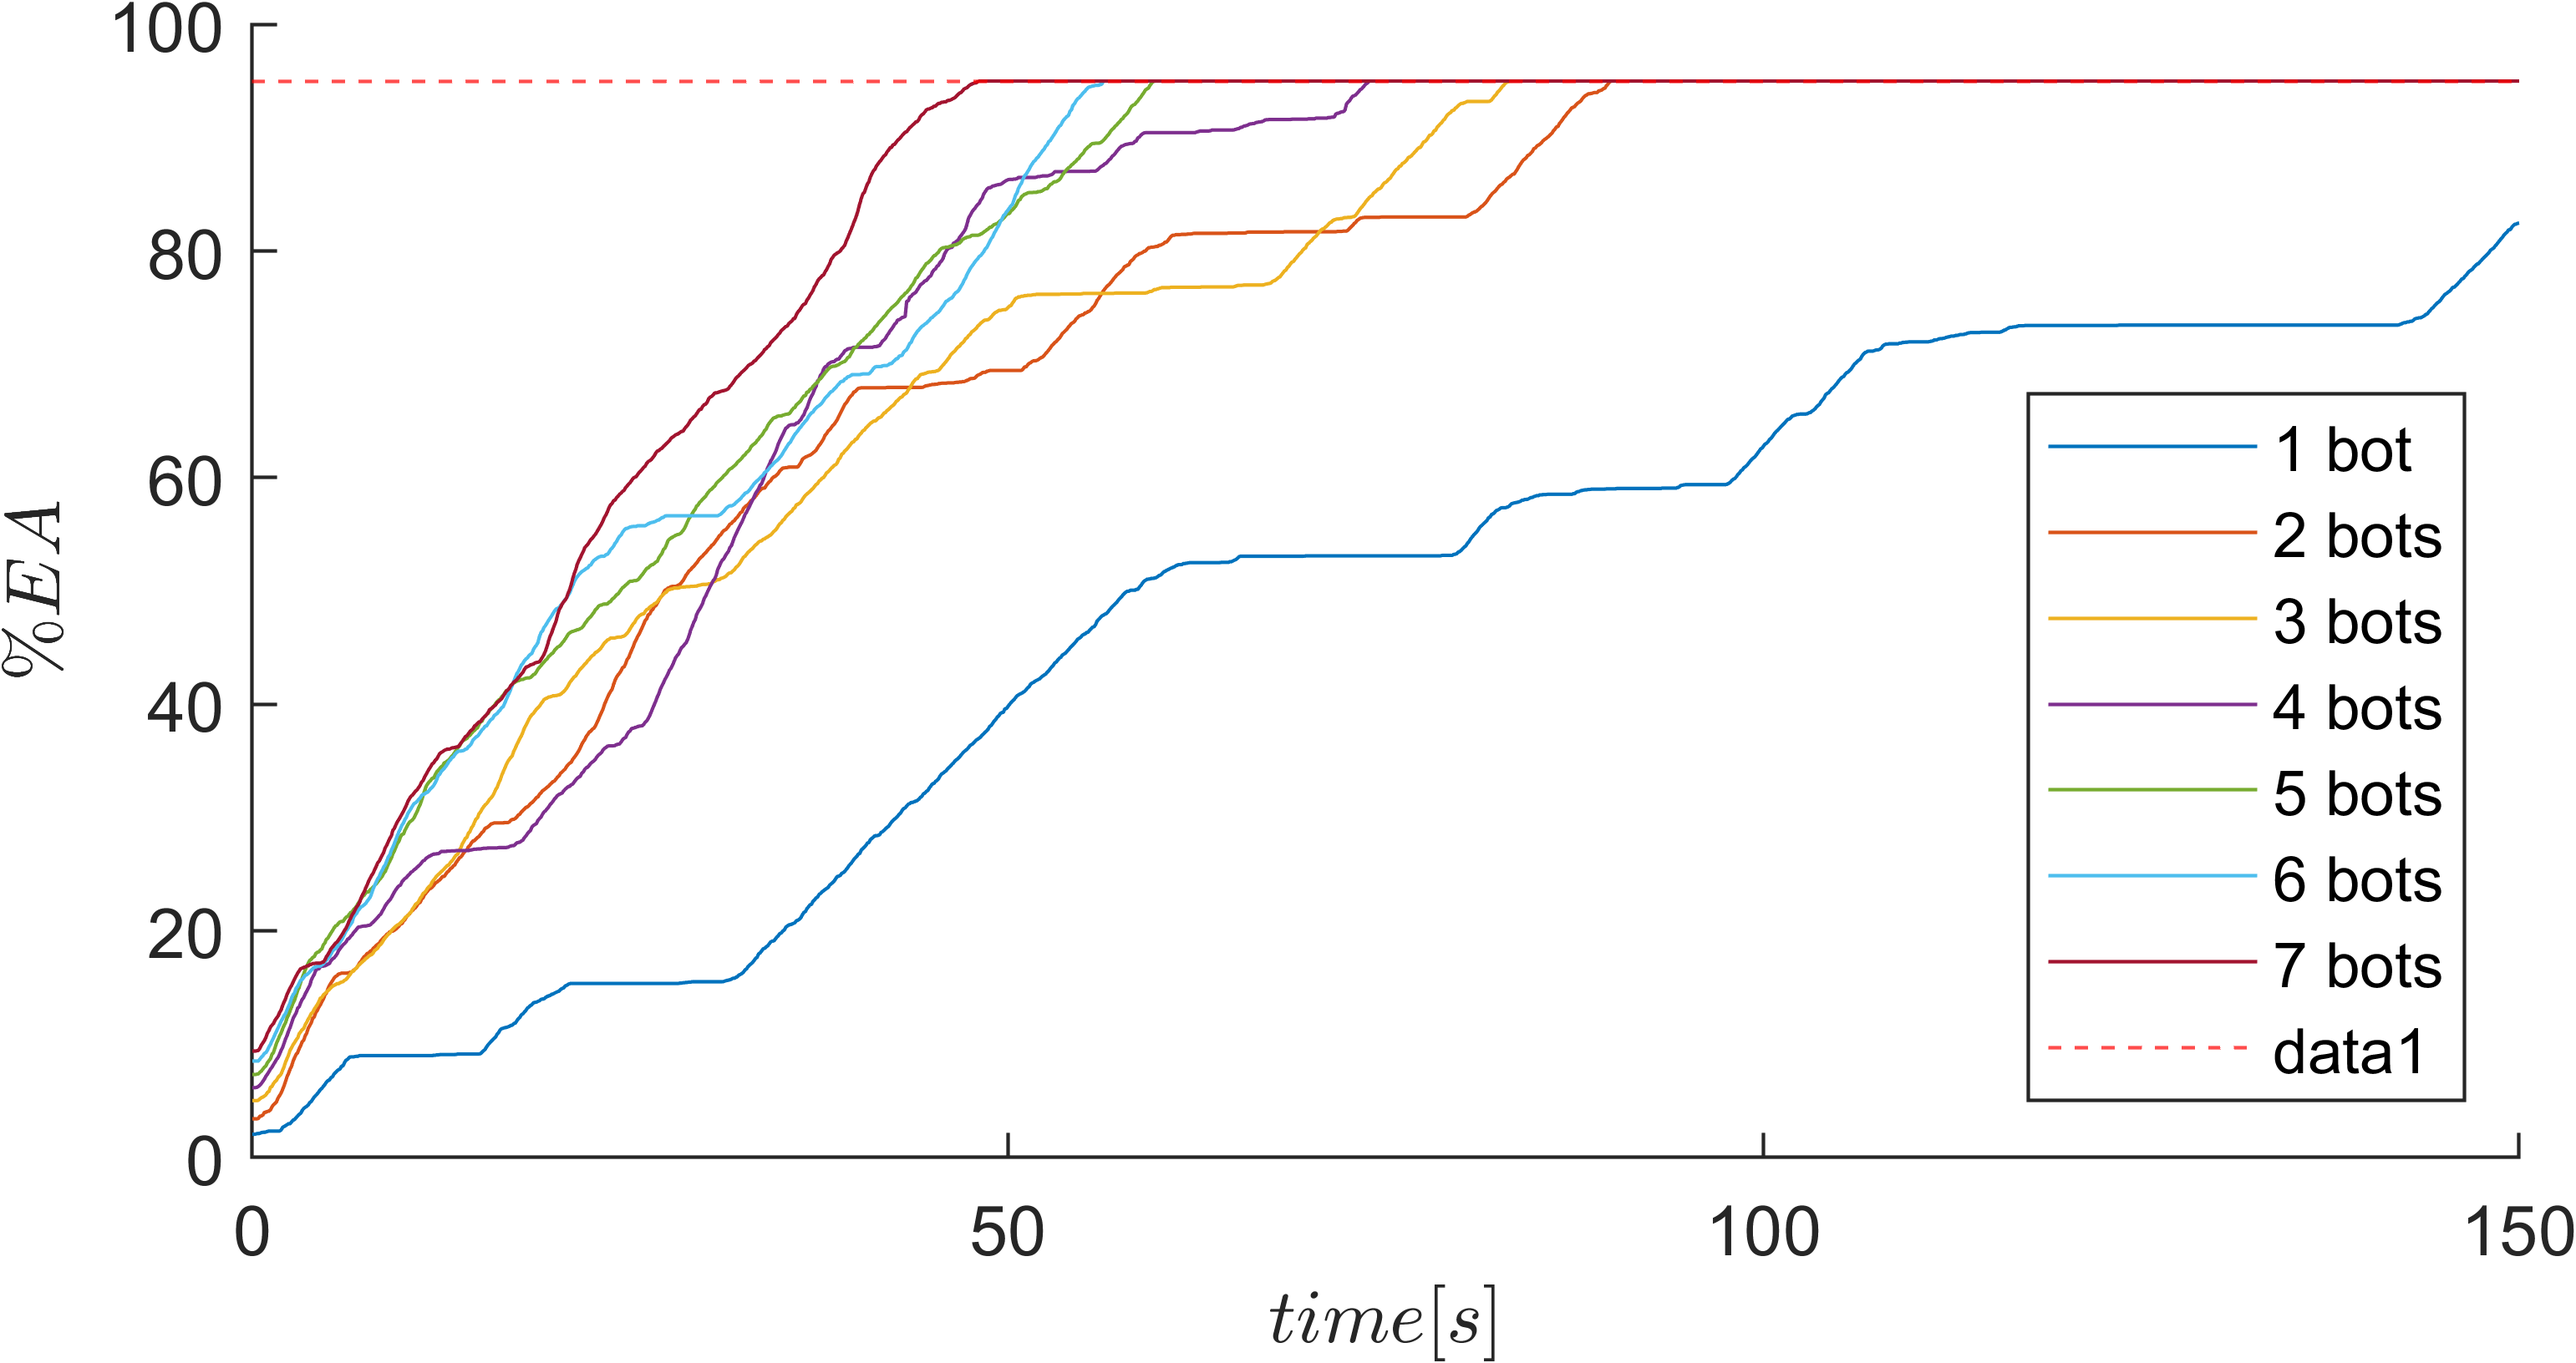
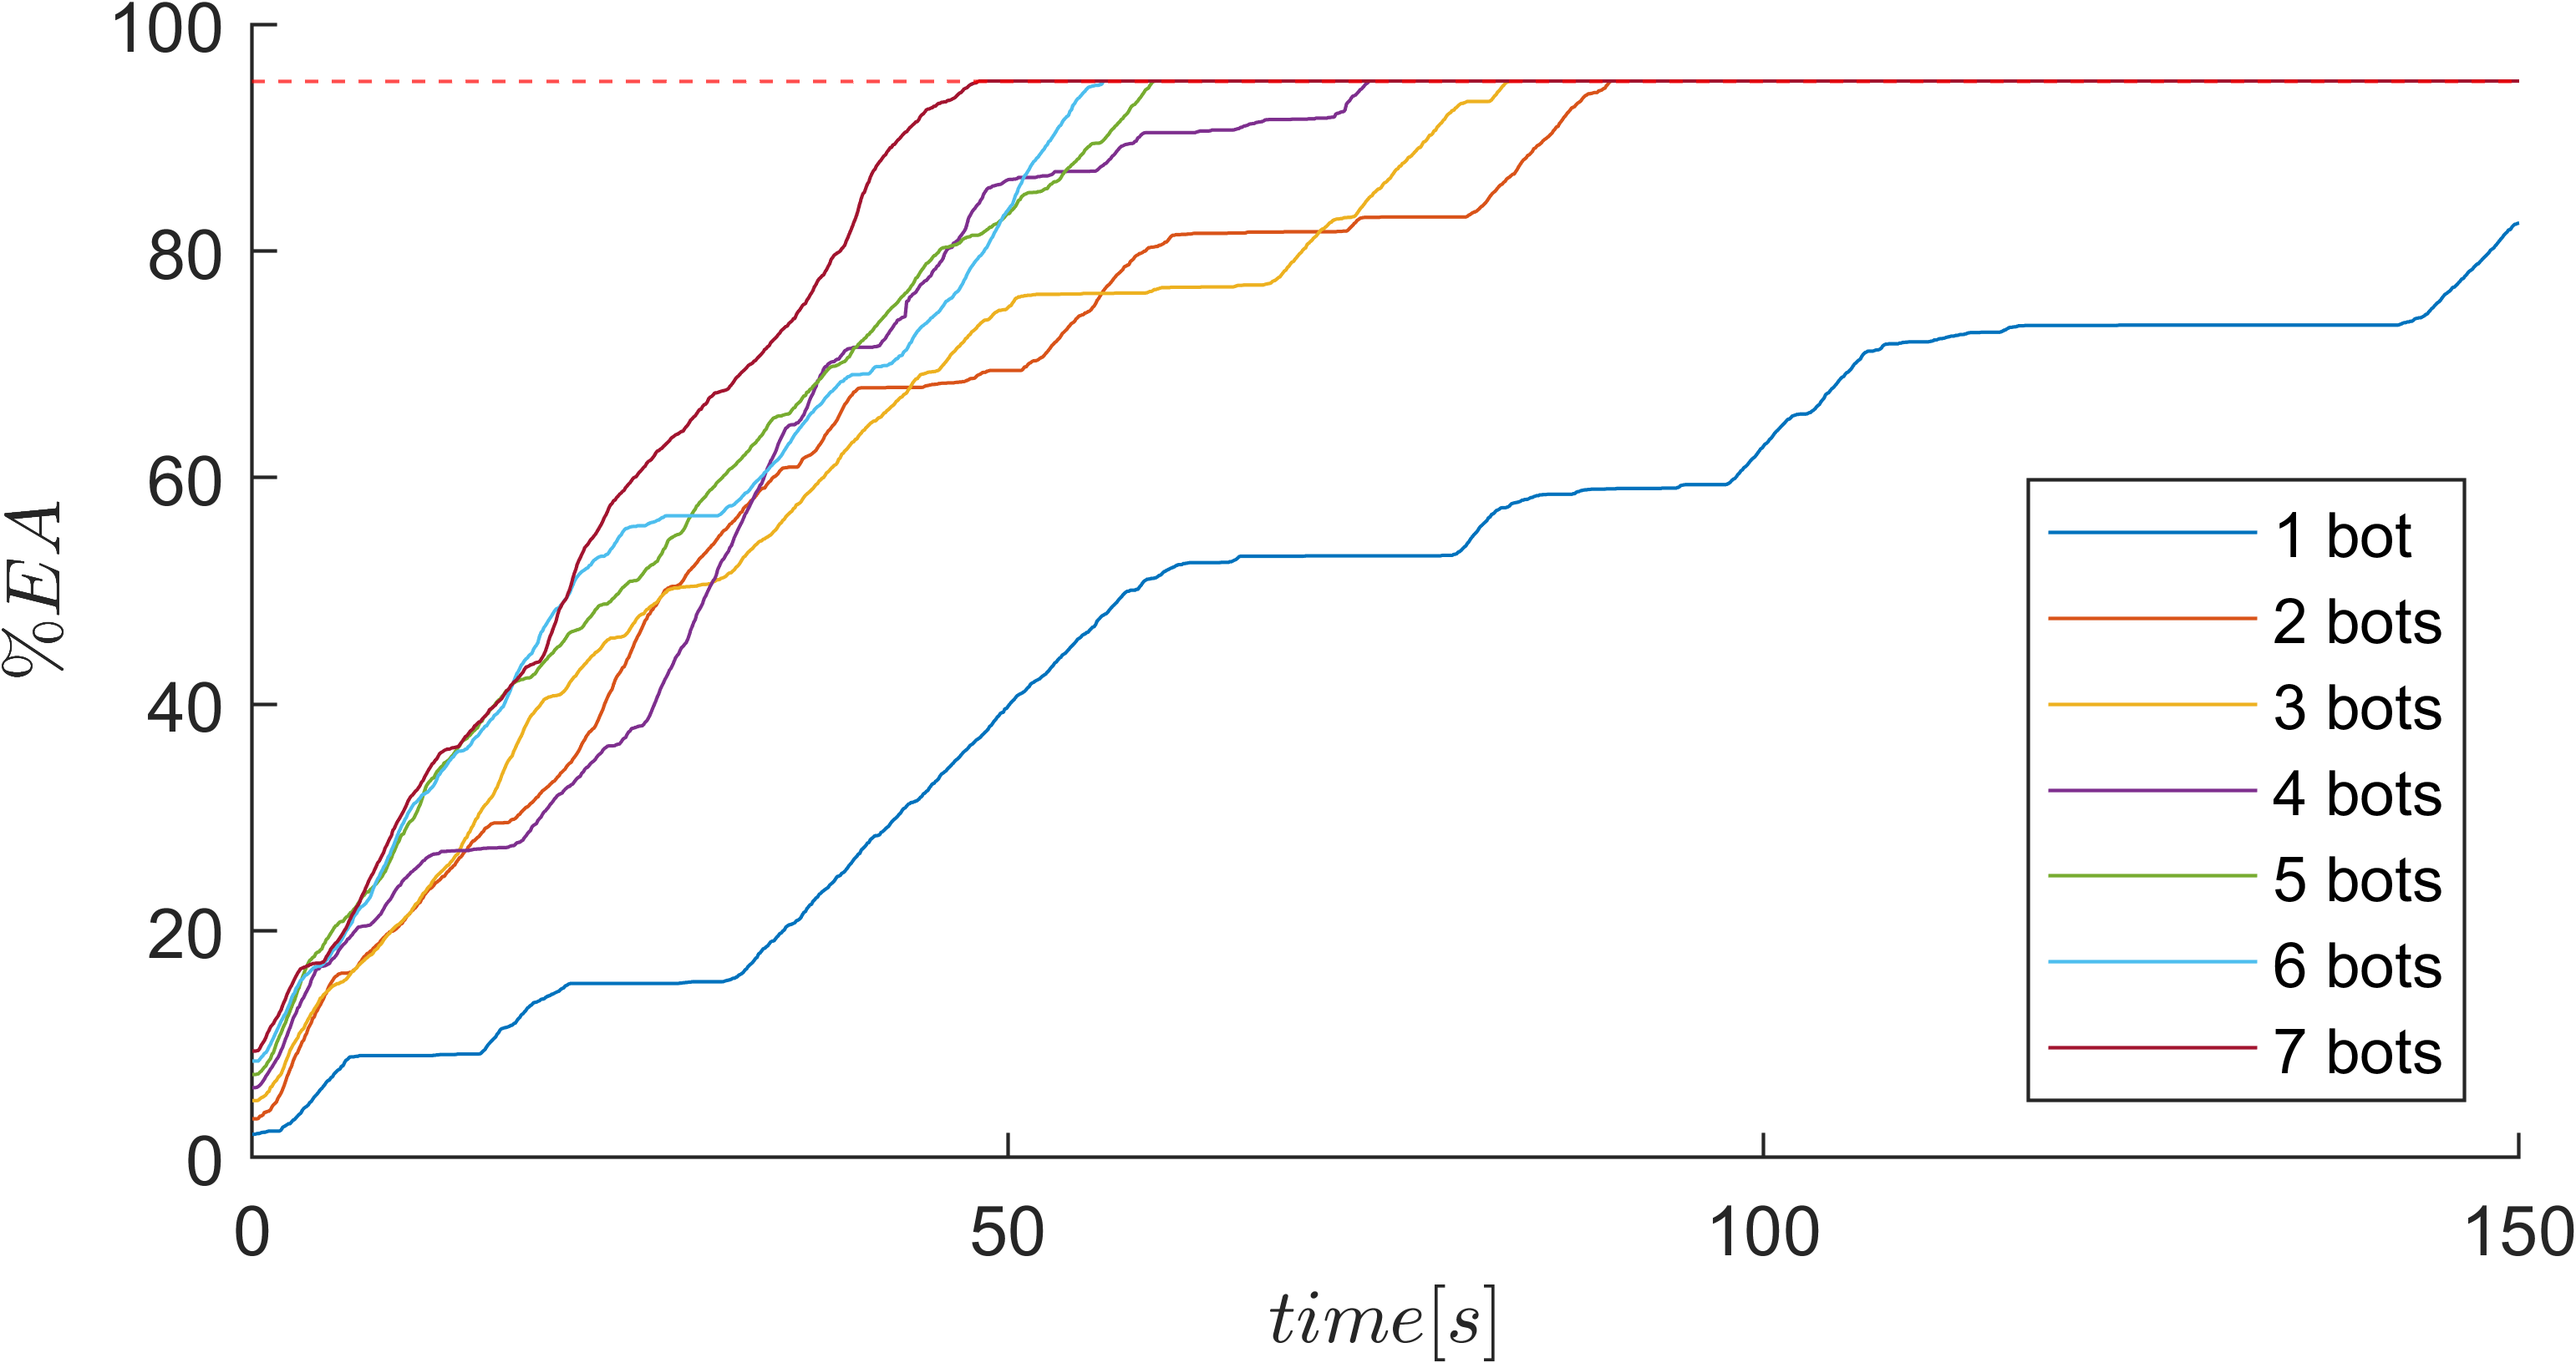
cambiata una figura

diff --git a/DiffBot.m b/DiffBot.m
@@ -211,8 +211,8 @@ classdef DiffBot < handle
         % sets plot)
         function plot_bot(obj)
             text(obj.pos_est(1),obj.pos_est(2),string(obj.id))
-            plot([obj.verts_unc(1,:),obj.verts_unc(1,1)],[obj.verts_unc(2,:),obj.verts_unc(2,1)],"LineWidth",1.1,"Color",'k');
-            plot([obj.verts_zi(1,:),obj.verts_zi(1,1)],[obj.verts_zi(2,:),obj.verts_zi(2,1)],"LineWidth",1.0,"Color",'b')
+            plot([obj.verts_unc(1,:),obj.verts_unc(1,1)],[obj.verts_unc(2,:),obj.verts_unc(2,1)],"LineWidth",1.0,"Color",'k');
+            % plot([obj.verts_zi(1,:),obj.verts_zi(1,1)],[obj.verts_zi(2,:),obj.verts_zi(2,1)],"LineWidth",1.0,"Color",'b')
             % plot([obj.verts_meas(1,:),obj.verts_meas(1,1)],[obj.verts_meas(2,:),obj.verts_meas(2,1)],"LineWidth",1.3,"Color",'b')
             plot_unc(obj)
             plot_disk(obj.pos(1),obj.pos(2),obj.bot_dim);

diff --git a/mainfor_graph.m b/mainfor_graph.m
@@ -160,14 +160,14 @@ mean_explor_t(1)=210;
 
 figure(1), clf, hold on,
 for j=min_bot:max_bot
-    plot(t_vec, explored_area_time{j}(med_idx(j),:))
+    plot(t_vec, explored_area_time{j}(med_idx(j),:));
 end
-
+yline(95,'Color','r','LineStyle','--')
 legend_nbot = n_bots_legend(min_bot:max_bot);
 legend(legend_nbot, Location='southeast')
 ylabel('$\% EA$','Interpreter','latex')
 xlabel('$time [s]$','Interpreter','latex')
-yline(95,'Color','r','LineStyle','--')
+
 pbaspect([2 1 1])
 hold off
 

diff --git a/main_config.m b/main_config.m
@@ -10,7 +10,7 @@ environment = 1;        % 1,2,3 for different environments (4 no obstacles)
 %% SIMULATION INIT
 t=0;                    % time t [s] init
 i=0;                    % i var init for plot only at certain step
-sim_t = 100;             % simulation time [s]
+sim_t = 100;            % simulation time [s]
 dt = 0.1;               % time step [s]
 n_r = 5;                % Number of Agents
 rs = 4.0;               % Maximum Lidar measurements range
